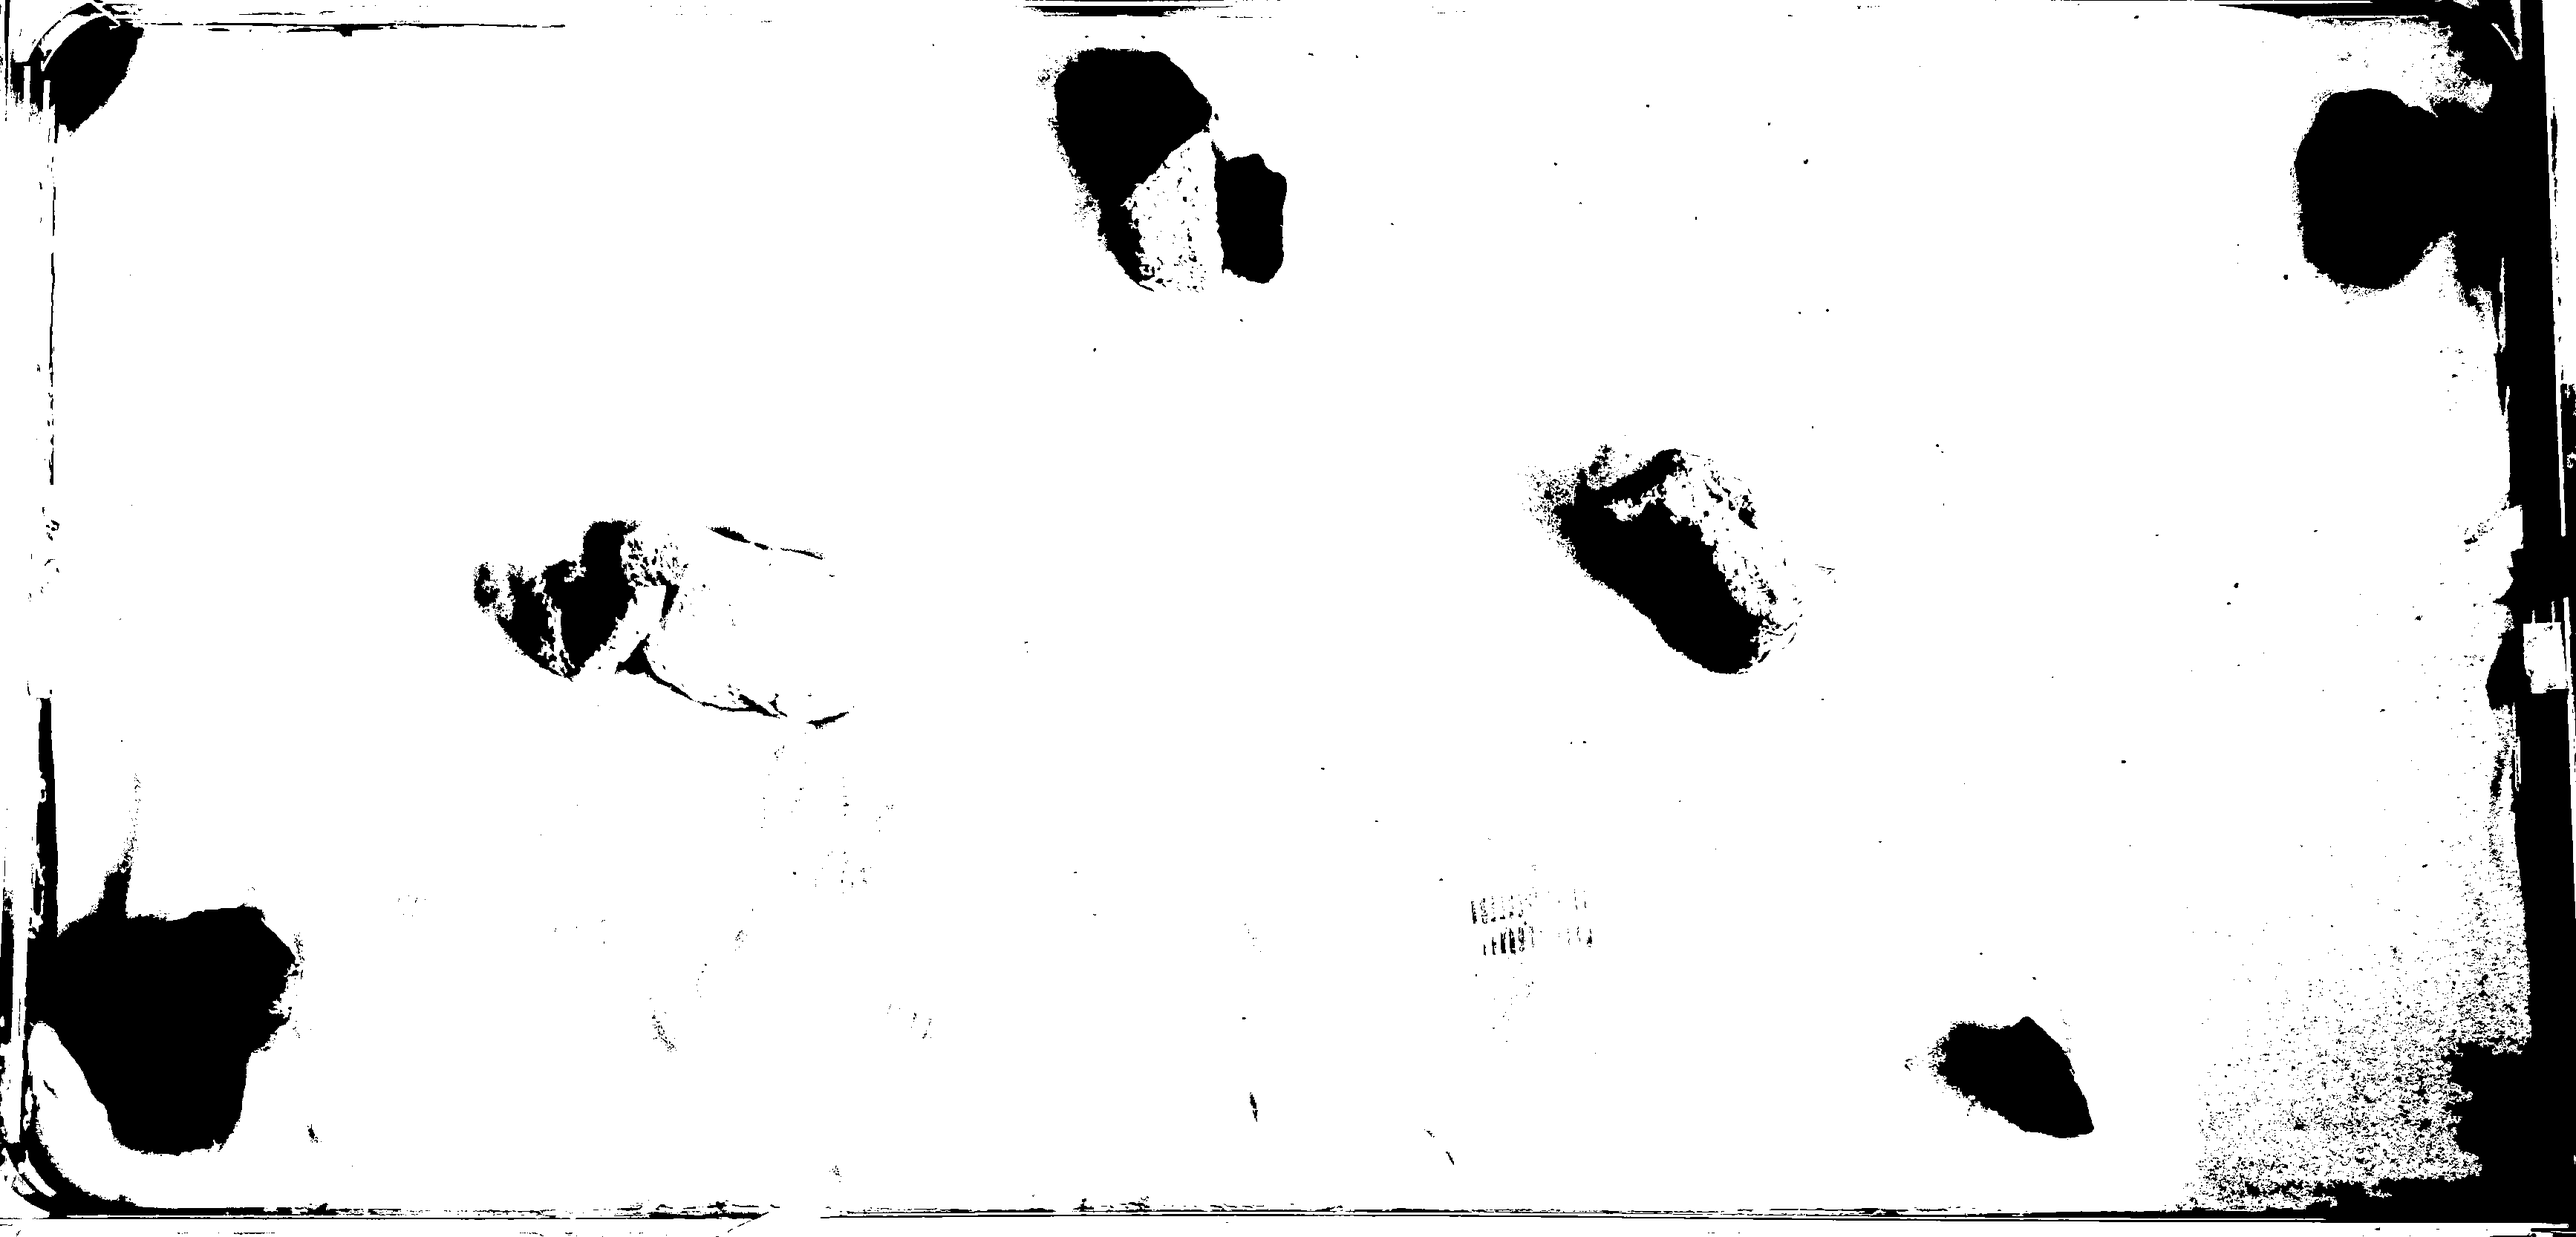
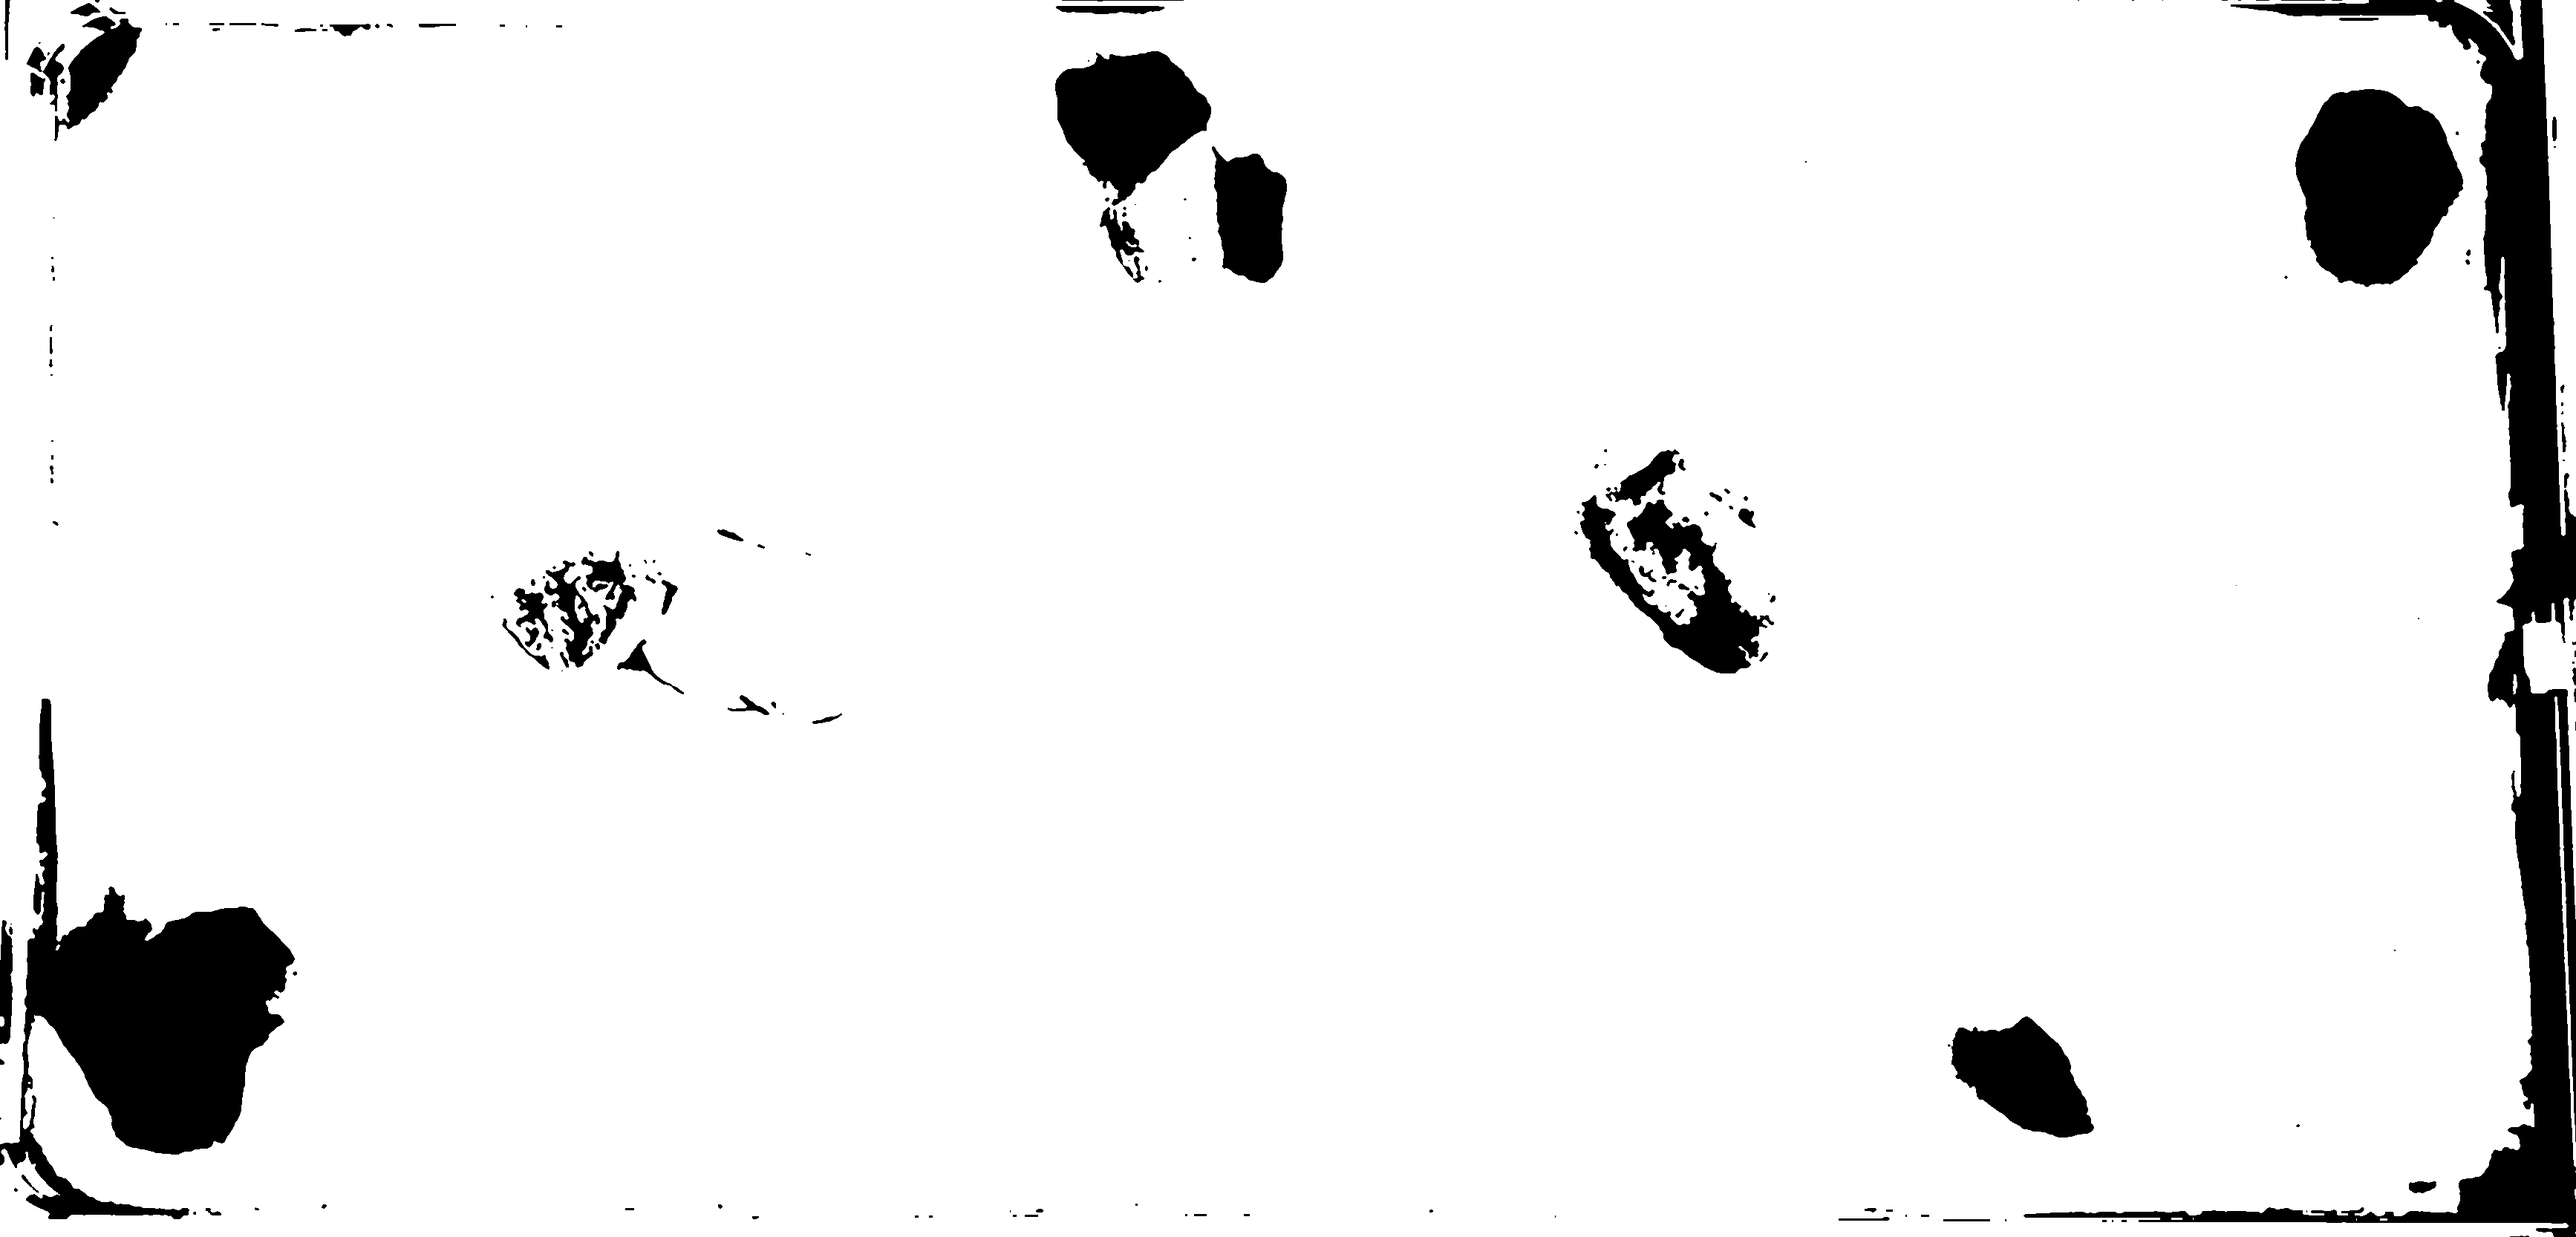
Update

diff --git a/src/environment_map/environment.py b/src/environment_map/environment.py
@@ -20,16 +20,16 @@ occupancy_grid = np.ones_like(gray) * 255
 cv2.drawContours(occupancy_grid, contours, -1, (0), thickness=cv2.FILLED)  
 
 # 5) Apply median filter to remove Salt and Pepper noise.
-filtered = cv2.medianBlur(img, 5)  # 5 is kernel size; use 3, 5, or 7
+filtered = cv2.medianBlur(cv2.medianBlur(occupancy_grid, 5), 5)  # 5 is kernel size; use 3, 5, or 7
 
 # 6) Overlay grid for visualization. 
 cell_size = 40  
-grid_img = cv2.cvtColor(occupancy_grid, cv2.COLOR_GRAY2BGR)
-for x in range(0, occupancy_grid.shape[1], cell_size):
-    cv2.line(grid_img, (x, 0), (x, occupancy_grid.shape[0]), (0, 255, 0), 1)
-for y in range(0, occupancy_grid.shape[0], cell_size):
-    cv2.line(grid_img, (0, y), (occupancy_grid.shape[1], y), (0, 255, 0), 1)
+grid_img = cv2.cvtColor(filtered, cv2.COLOR_GRAY2BGR)
+for x in range(0, filtered.shape[1], cell_size):
+    cv2.line(grid_img, (x, 0), (x, filtered.shape[0]), (0, 255, 0), 1)
+for y in range(0, filtered.shape[0], cell_size):
+    cv2.line(grid_img, (0, y), (filtered.shape[1], y), (0, 255, 0), 1)
 cv2.imwrite('/Users/alessioborgi/Documents/GitHub/Tohoku_TESP/img/occupancy_grid_with_gridlines.png', grid_img)
 
 # 7) Export the occupancy grid as PNG.
-cv2.imwrite('/Users/alessioborgi/Documents/GitHub/Tohoku_TESP/img/occupancy_grid.png', occupancy_grid)
+cv2.imwrite('/Users/alessioborgi/Documents/GitHub/Tohoku_TESP/img/occupancy_grid.png', filtered)
